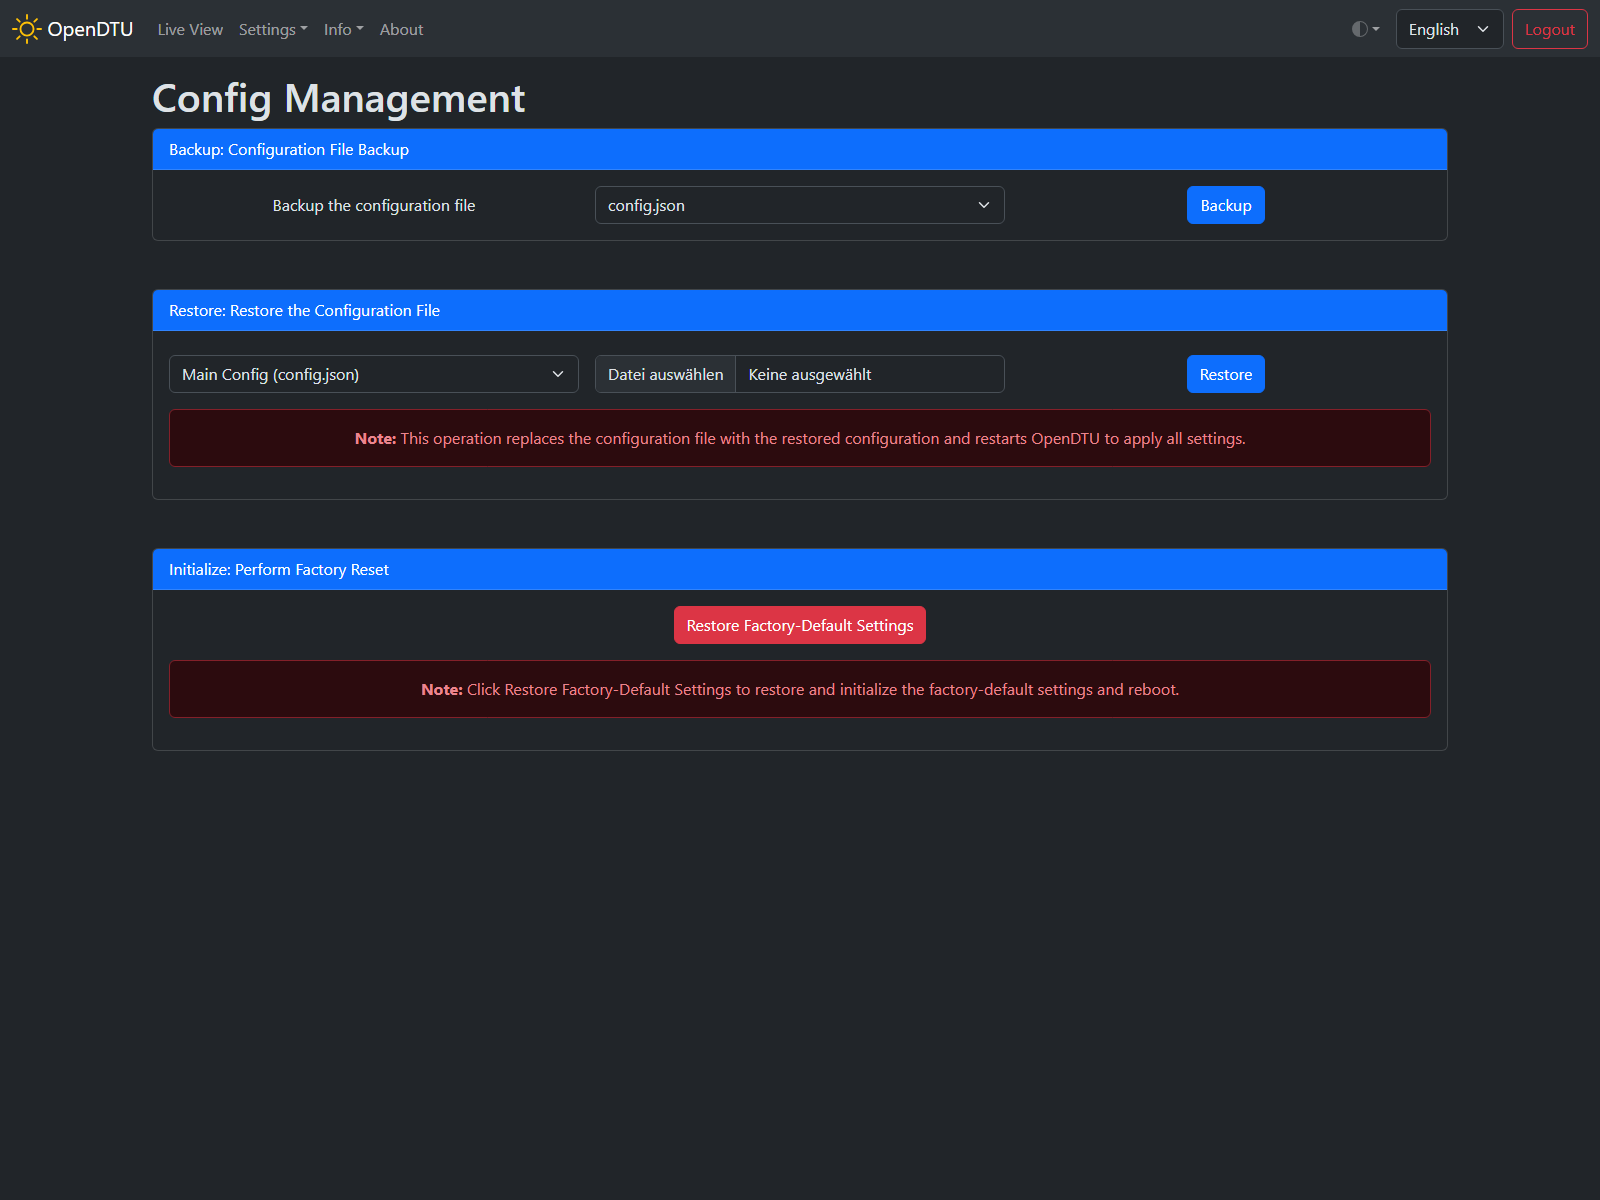
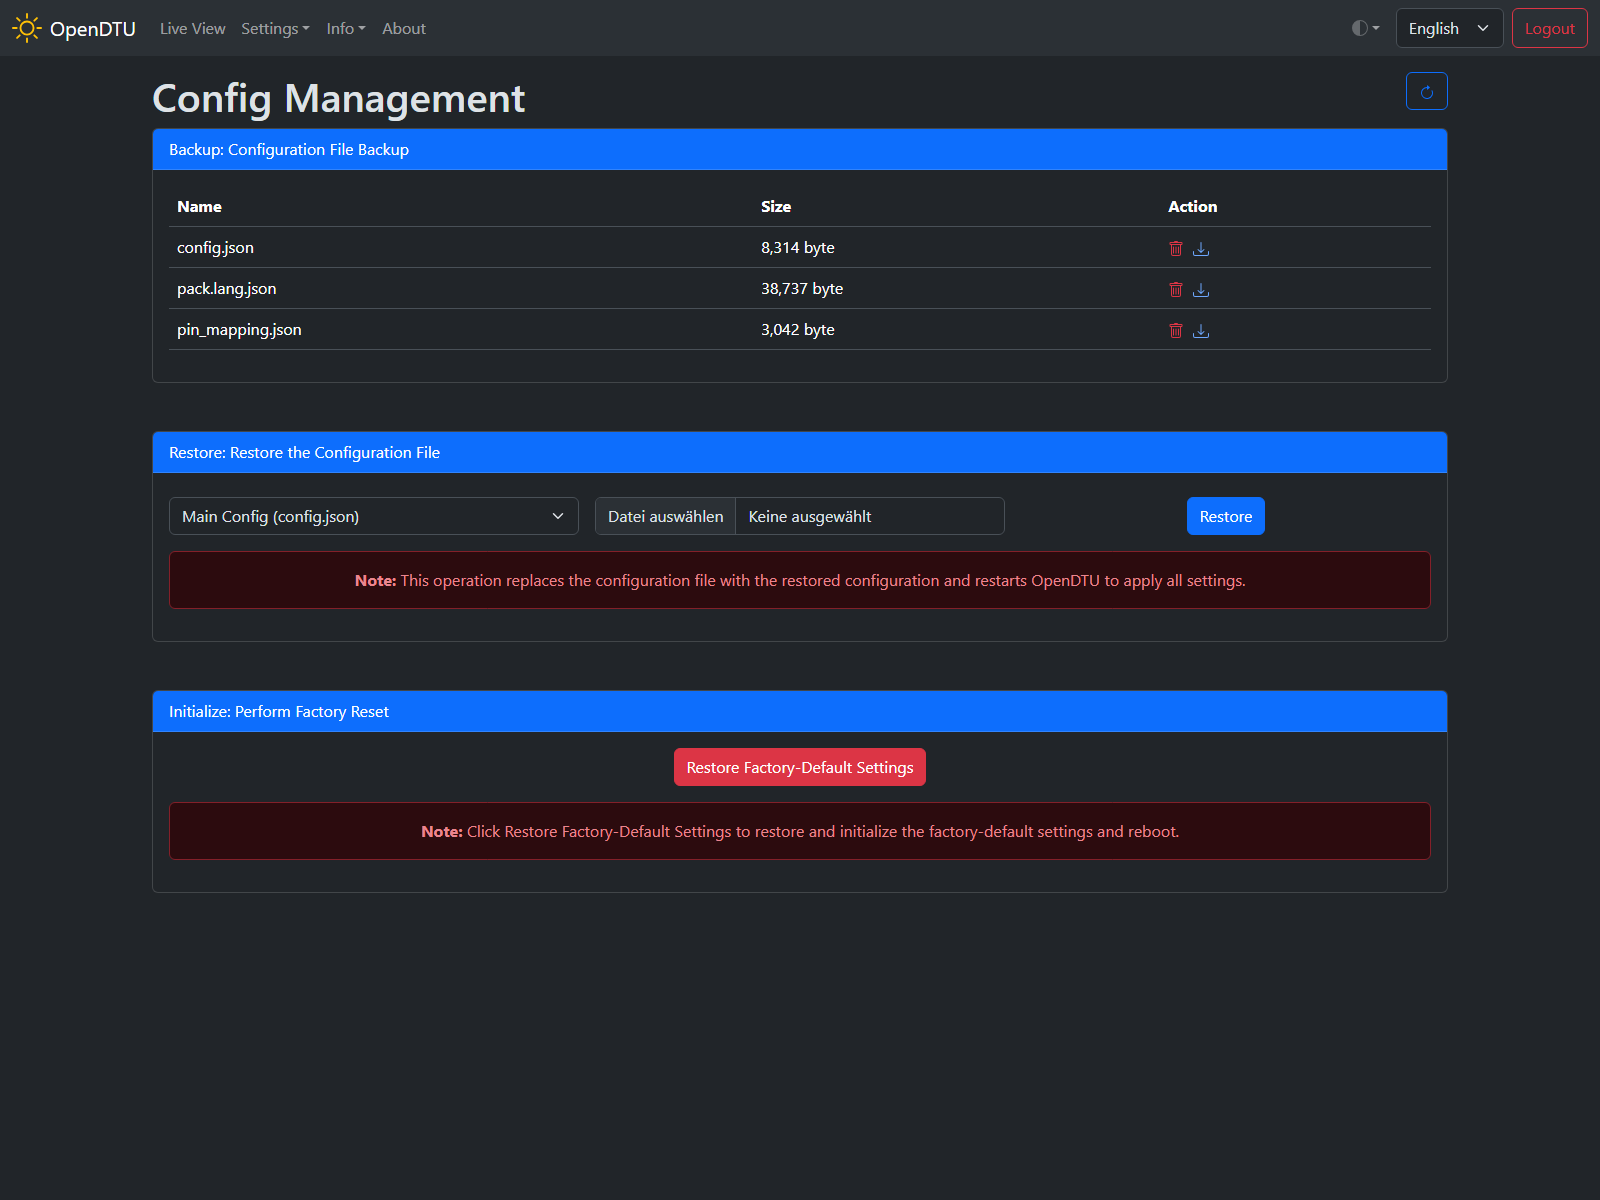
Describe language packs and adjust the file upload view

diff --git a/docs/firmware/configuration/config_settings.md b/docs/firmware/configuration/config_settings.md
@@ -8,13 +8,13 @@
 
 ### Backup: Configuration File Backup
 
-#### Backup the configuration file :material-form-dropdown:{title="Dropdown"}
+#### Delete :material-button-cursor:{title="Button"}
 
-Select the configuration file which you want to download.
+Click the red trash download button delete the selected config file from the device.
 
-#### Backup :material-button-cursor:{title="Button"}
+#### Download :material-button-cursor:{title="Button"}
 
-Press this button to download the previously selected config file. The format of this file is `.json` and can be opened with any text editor.
+Click the blue download button to download the selected config file. The format of this file is `.json` and can be opened with any text editor.
 
 ### Restore: Restore the Configuration File
 
@@ -22,8 +22,9 @@ Press this button to download the previously selected config file. The format of
 
 Select the file type which you are going to upload. The following values are possible:
 
-* Main Config (config.json): A config file which was [previously backuped](#backup-configuration-file-backup)
-* Pin Mapping (pin_mapping.json): A [Device Profile](../device_profiles.md) configuration file.
+* Main Config (`config.json`): A config file which was [previously backuped](#backup-configuration-file-backup)
+* Pin Mapping (`pin_mapping.json`): A [Device Profile](../device_profiles.md) configuration file.
+* Language Pack (`pack.lang.json`): A [Language Pack](../language_pack.md) which contains translations for the web app.
 
 !!! warning "Warning"
 
@@ -41,5 +42,5 @@ Press this button to upload the selected source file to the specified target fil
 
 #### Restore Factory-Default Settings :material-button-cursor:{title="Button"}
 
-This will delete the `config.json` file on the internal memory and therefor reset all settings to it's defaults. The `pin_mapping.json` file is preserved but the previously selected [Device Profile](../device_profiles.md) is set to default values.
+This will delete the `config.json` file and the `pack.lang.json` file on the internal memory and therefor reset all settings to it's defaults. The `pin_mapping.json` file is preserved but the previously selected [Device Profile](../device_profiles.md) is set to default values.
 After deleting all settings a automatic reboot is performed and the [initial Access Point](../wifi_setup.md) is opened again.

diff --git a/docs/firmware/language_pack.md b/docs/firmware/language_pack.md
@@ -1,0 +1,42 @@
+# Language Packs
+
+!!! note "Available language packs"
+    Ready-to-use language packs can be found [in the code
+    repository](https://github.com/tbnobody/OpenDTU/lang){target=_blank}.
+
+## Summary
+
+Language packs currently contain the translations for the web interface.
+Additional translations for e.g. the display will follow.
+
+## File structure
+
+### Meta data
+
+The language pack contains a `meta` section with the following parameters:
+
+* `name`: Human readable name of the language. Will be used in the frontend (Should be in the appropriate language)
+* `code`: Set 1 ISO[^1] code of the language
+
+### WebApp data
+
+The `webapp` section contains all the translation keys as used in the web app.
+
+### Example
+
+```json
+{
+    "meta": {
+        "name": "Italiano",
+        "code": "it"
+    },
+    "webapp": {
+        "menu": {
+            ...
+        },
+        ...
+    }
+}
+```
+
+[^1]: [ISO 639 language codes](https://en.wikipedia.org/wiki/List_of_ISO_639_language_codes){target=_blank}
